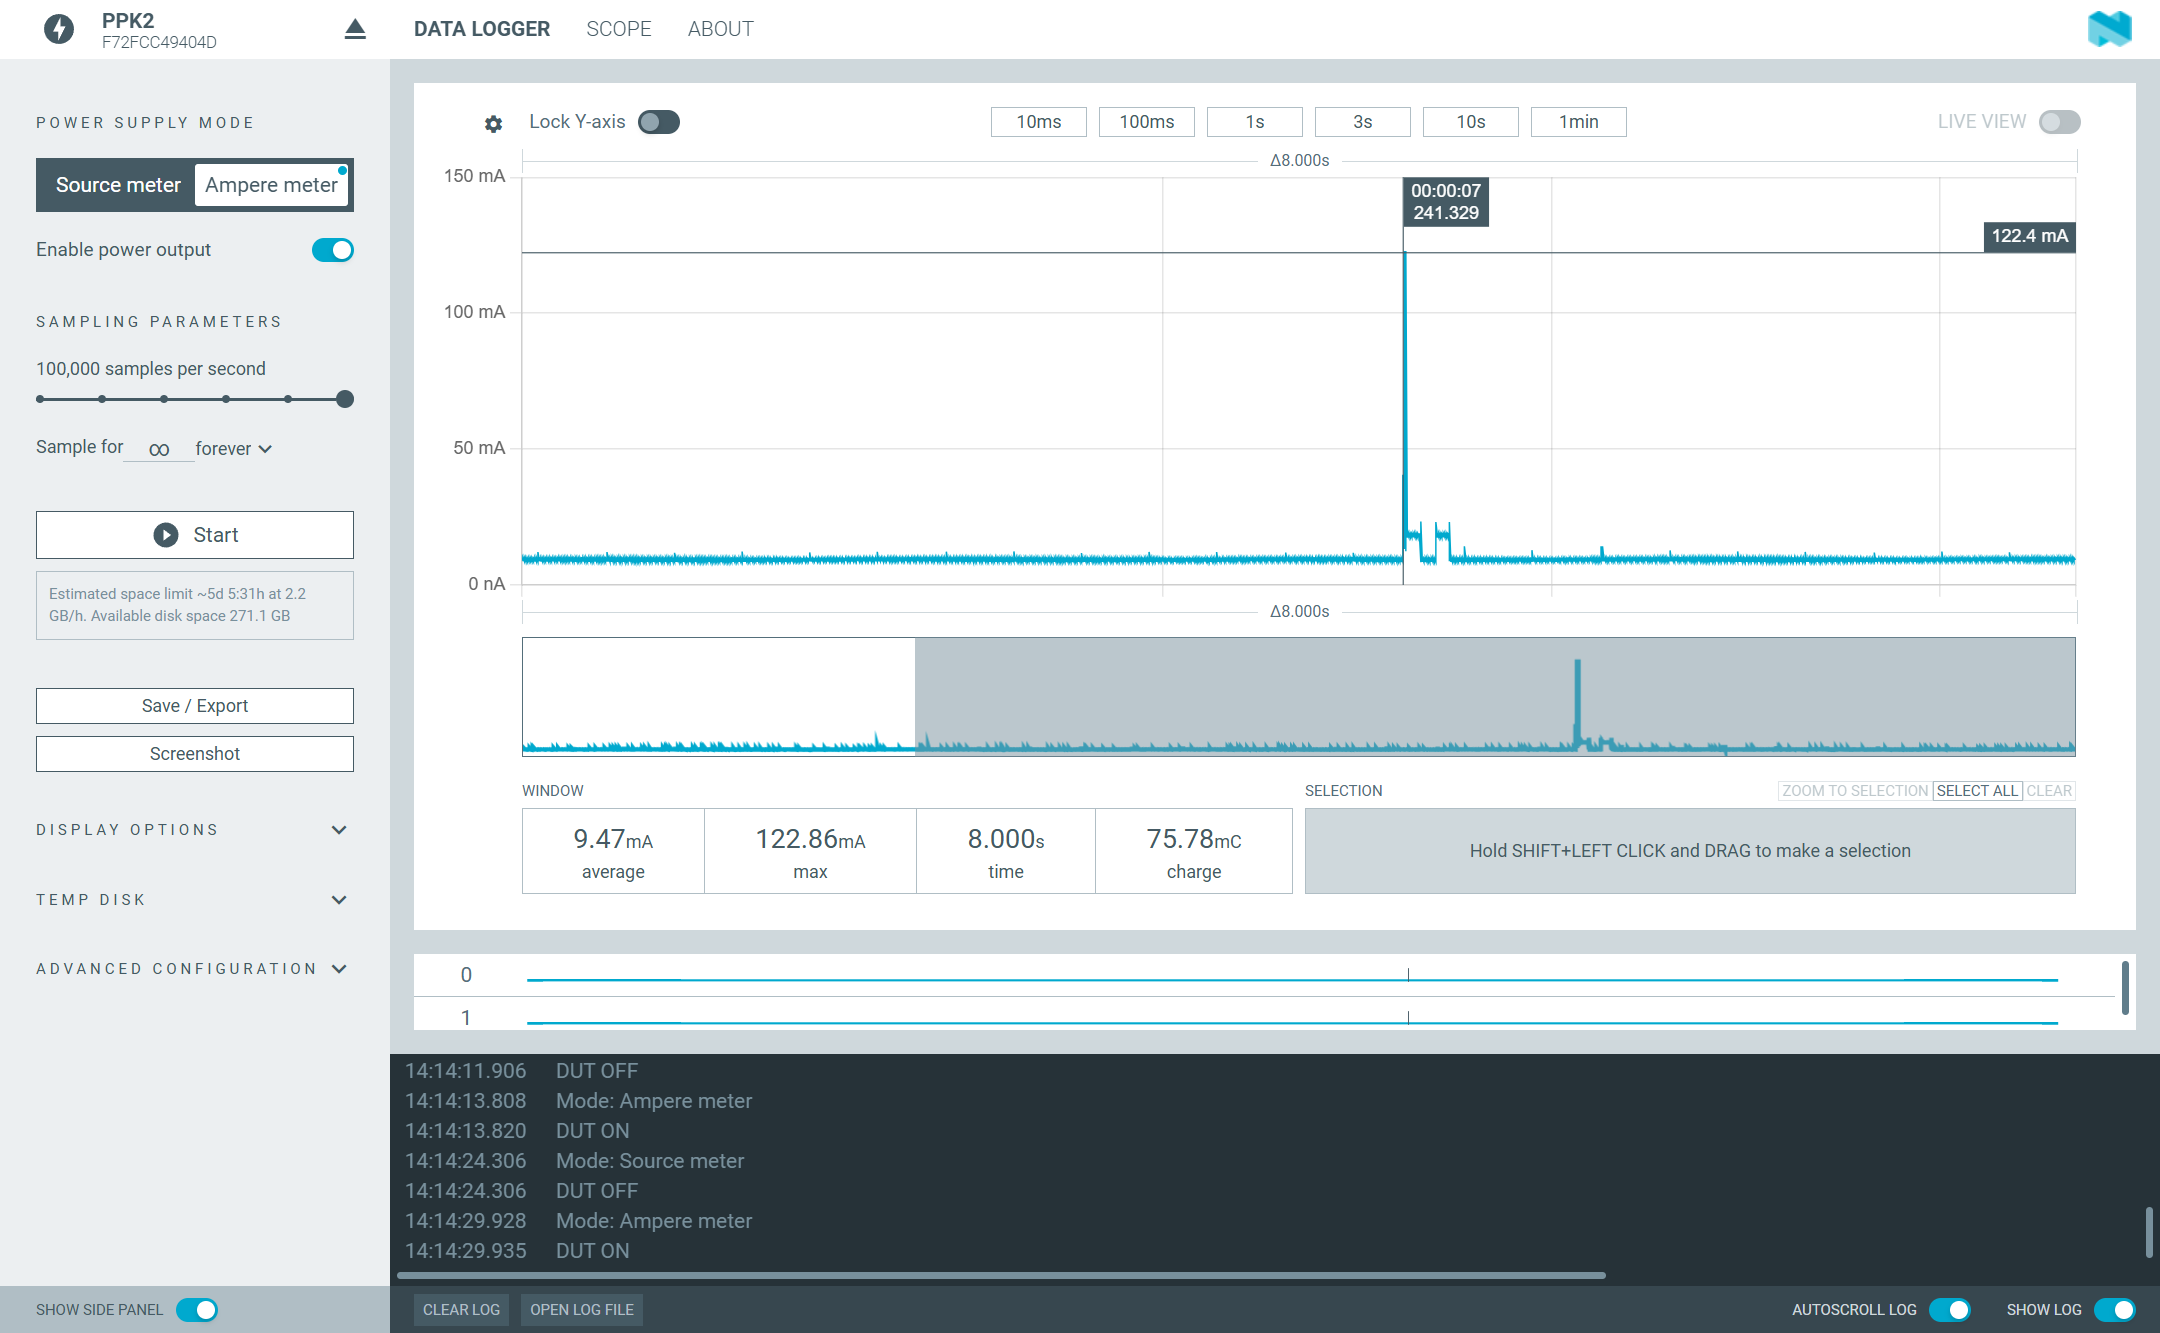
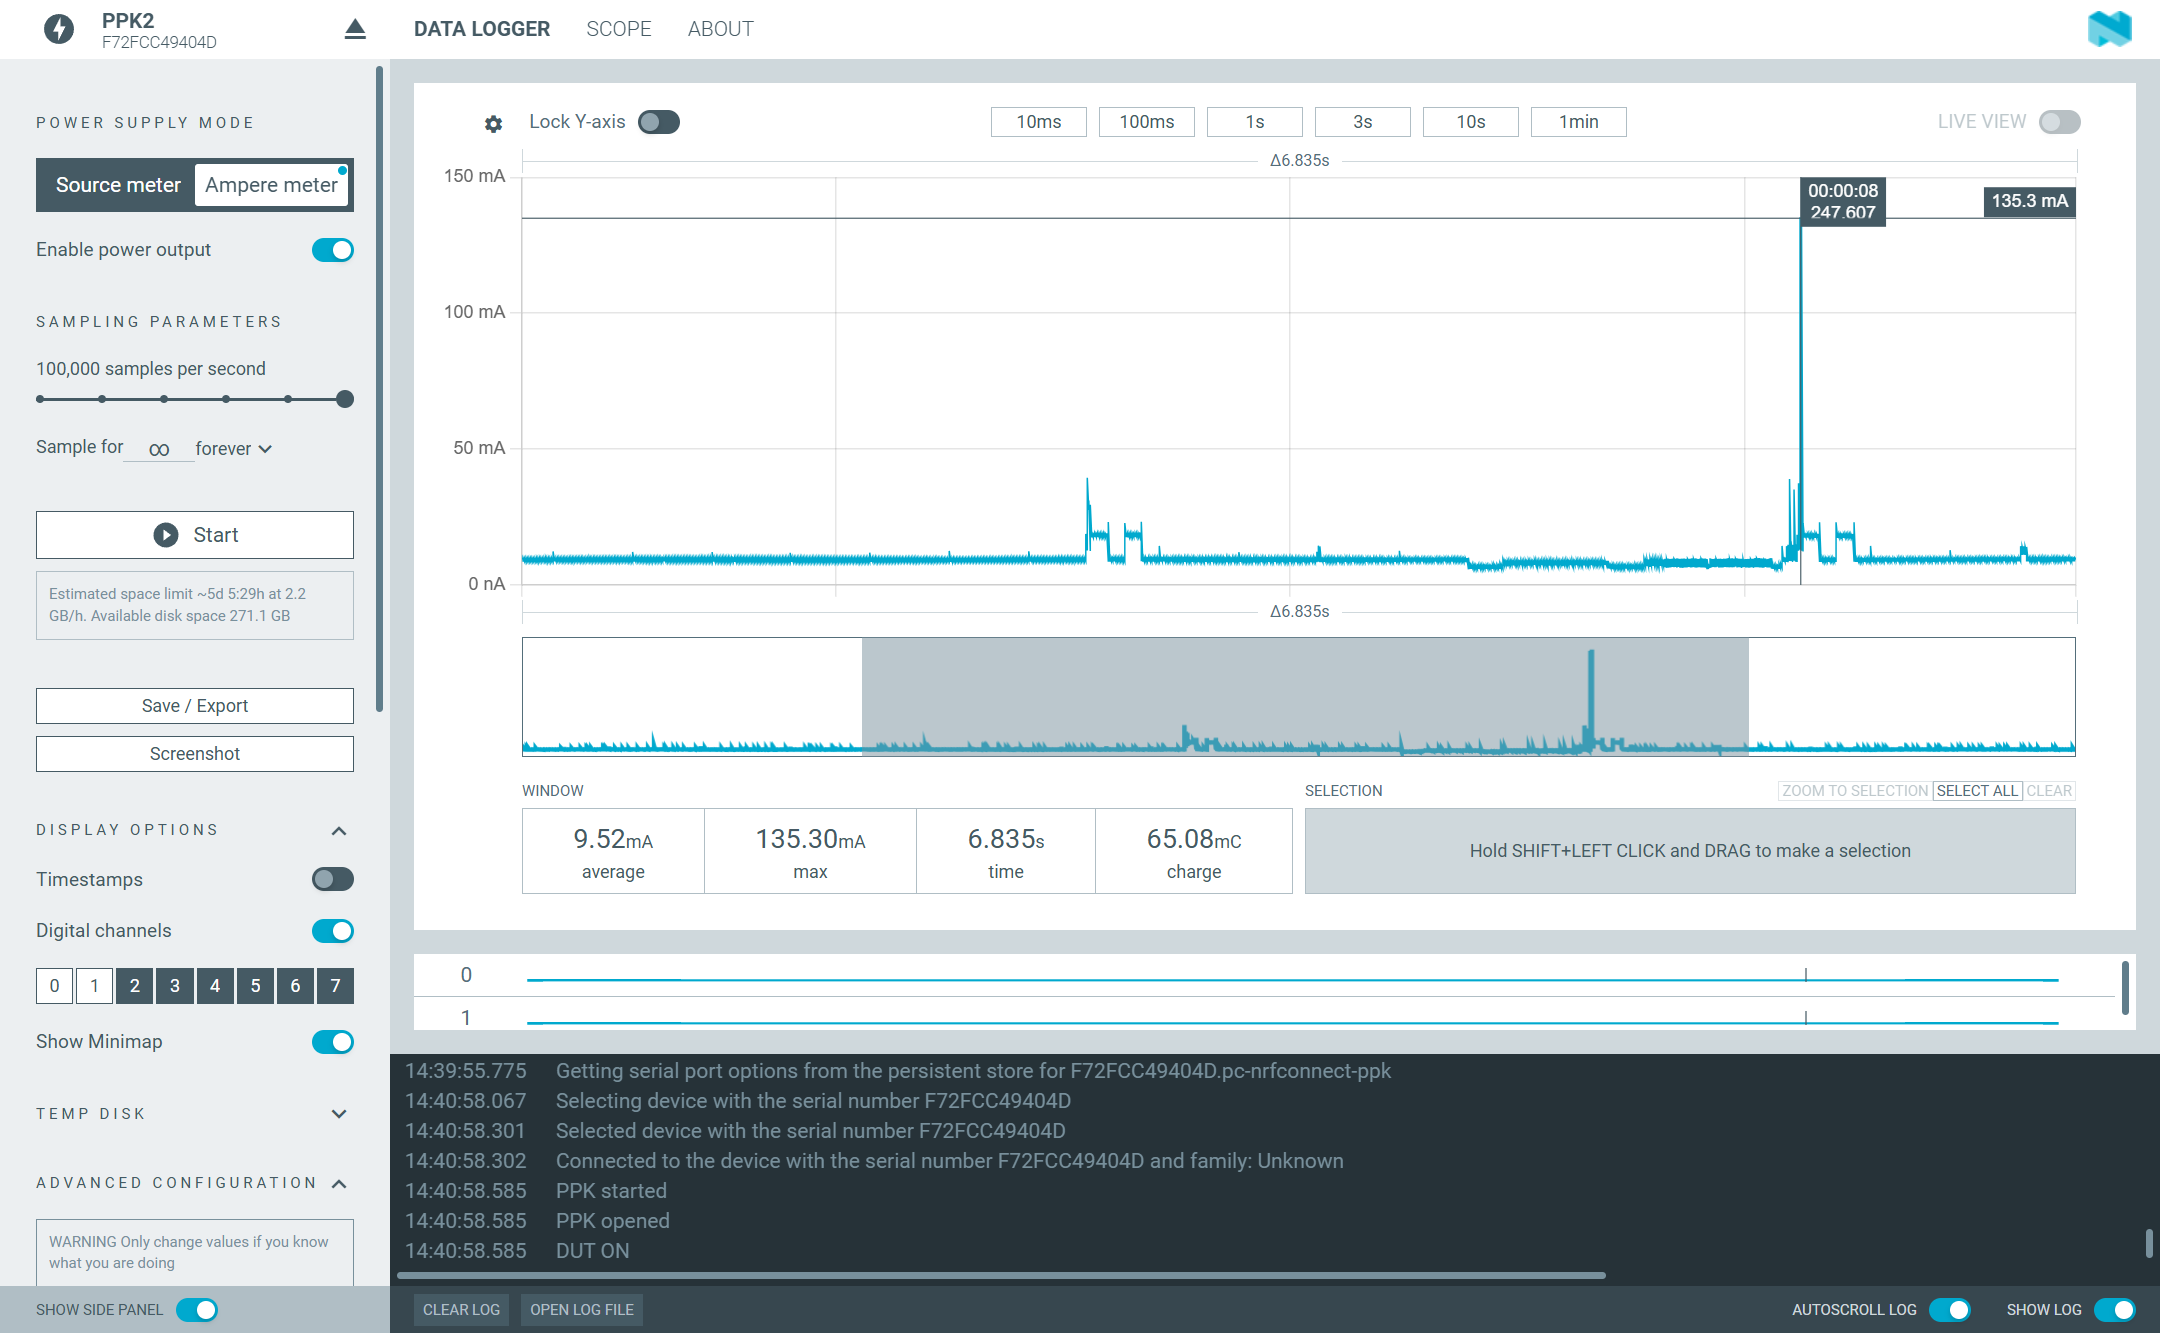
Final version of code

diff --git a/Part_1/1_2/src/1_2_send.c b/Part_1/1_2/src/1_2_send.c
@@ -71,7 +71,7 @@ int main(void)
 	config.coding_rate = CR_4_5;
 	config.iq_inverted = false;
 	config.public_network = false;
-	config.tx_power = -9;
+	config.tx_power = 22;
 	config.tx = true;
 
 	ret = lora_config(lora_dev, &config);
